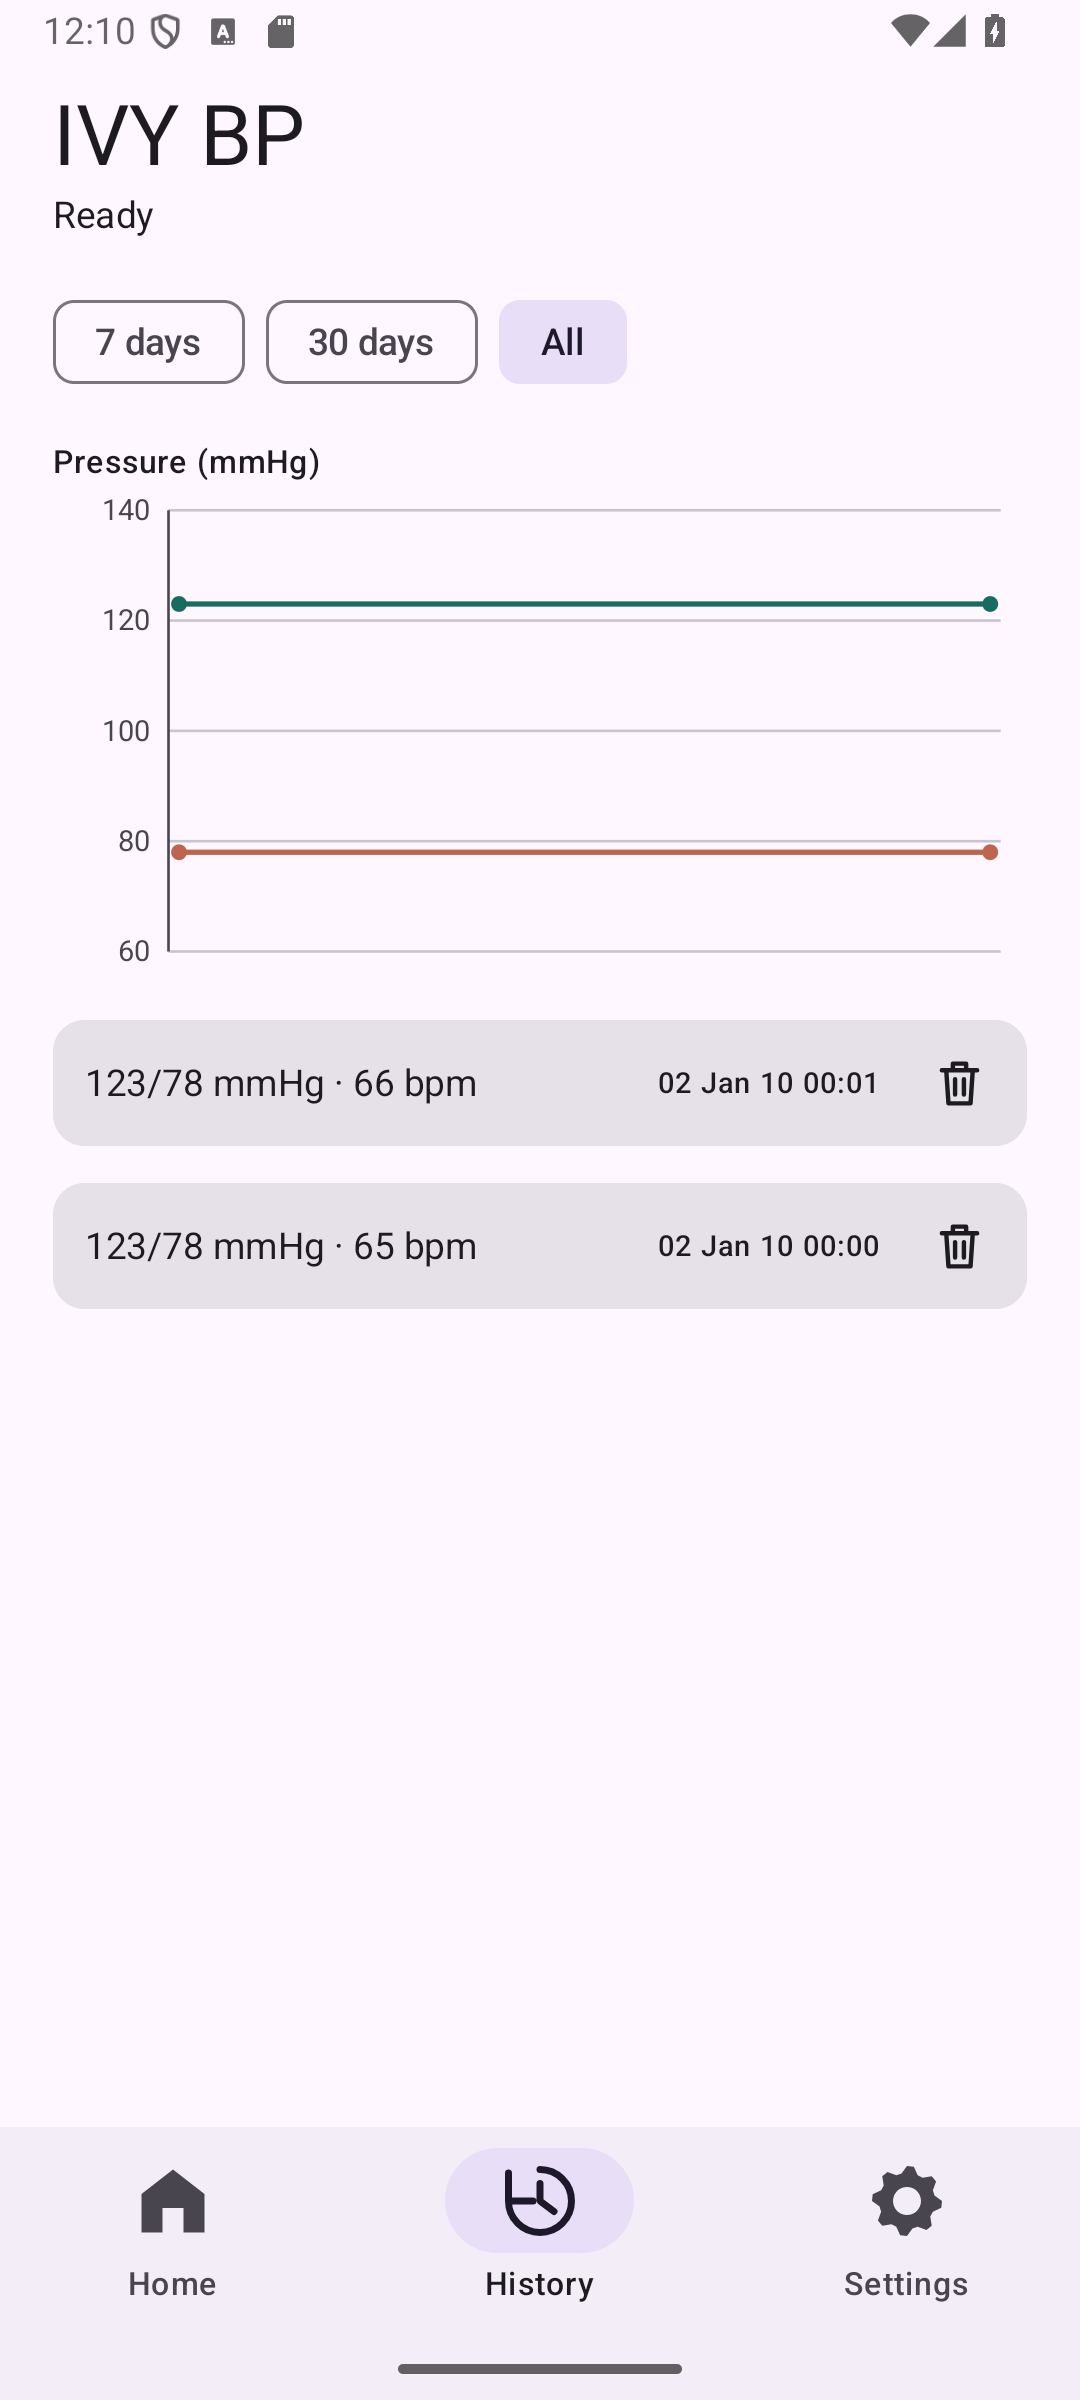
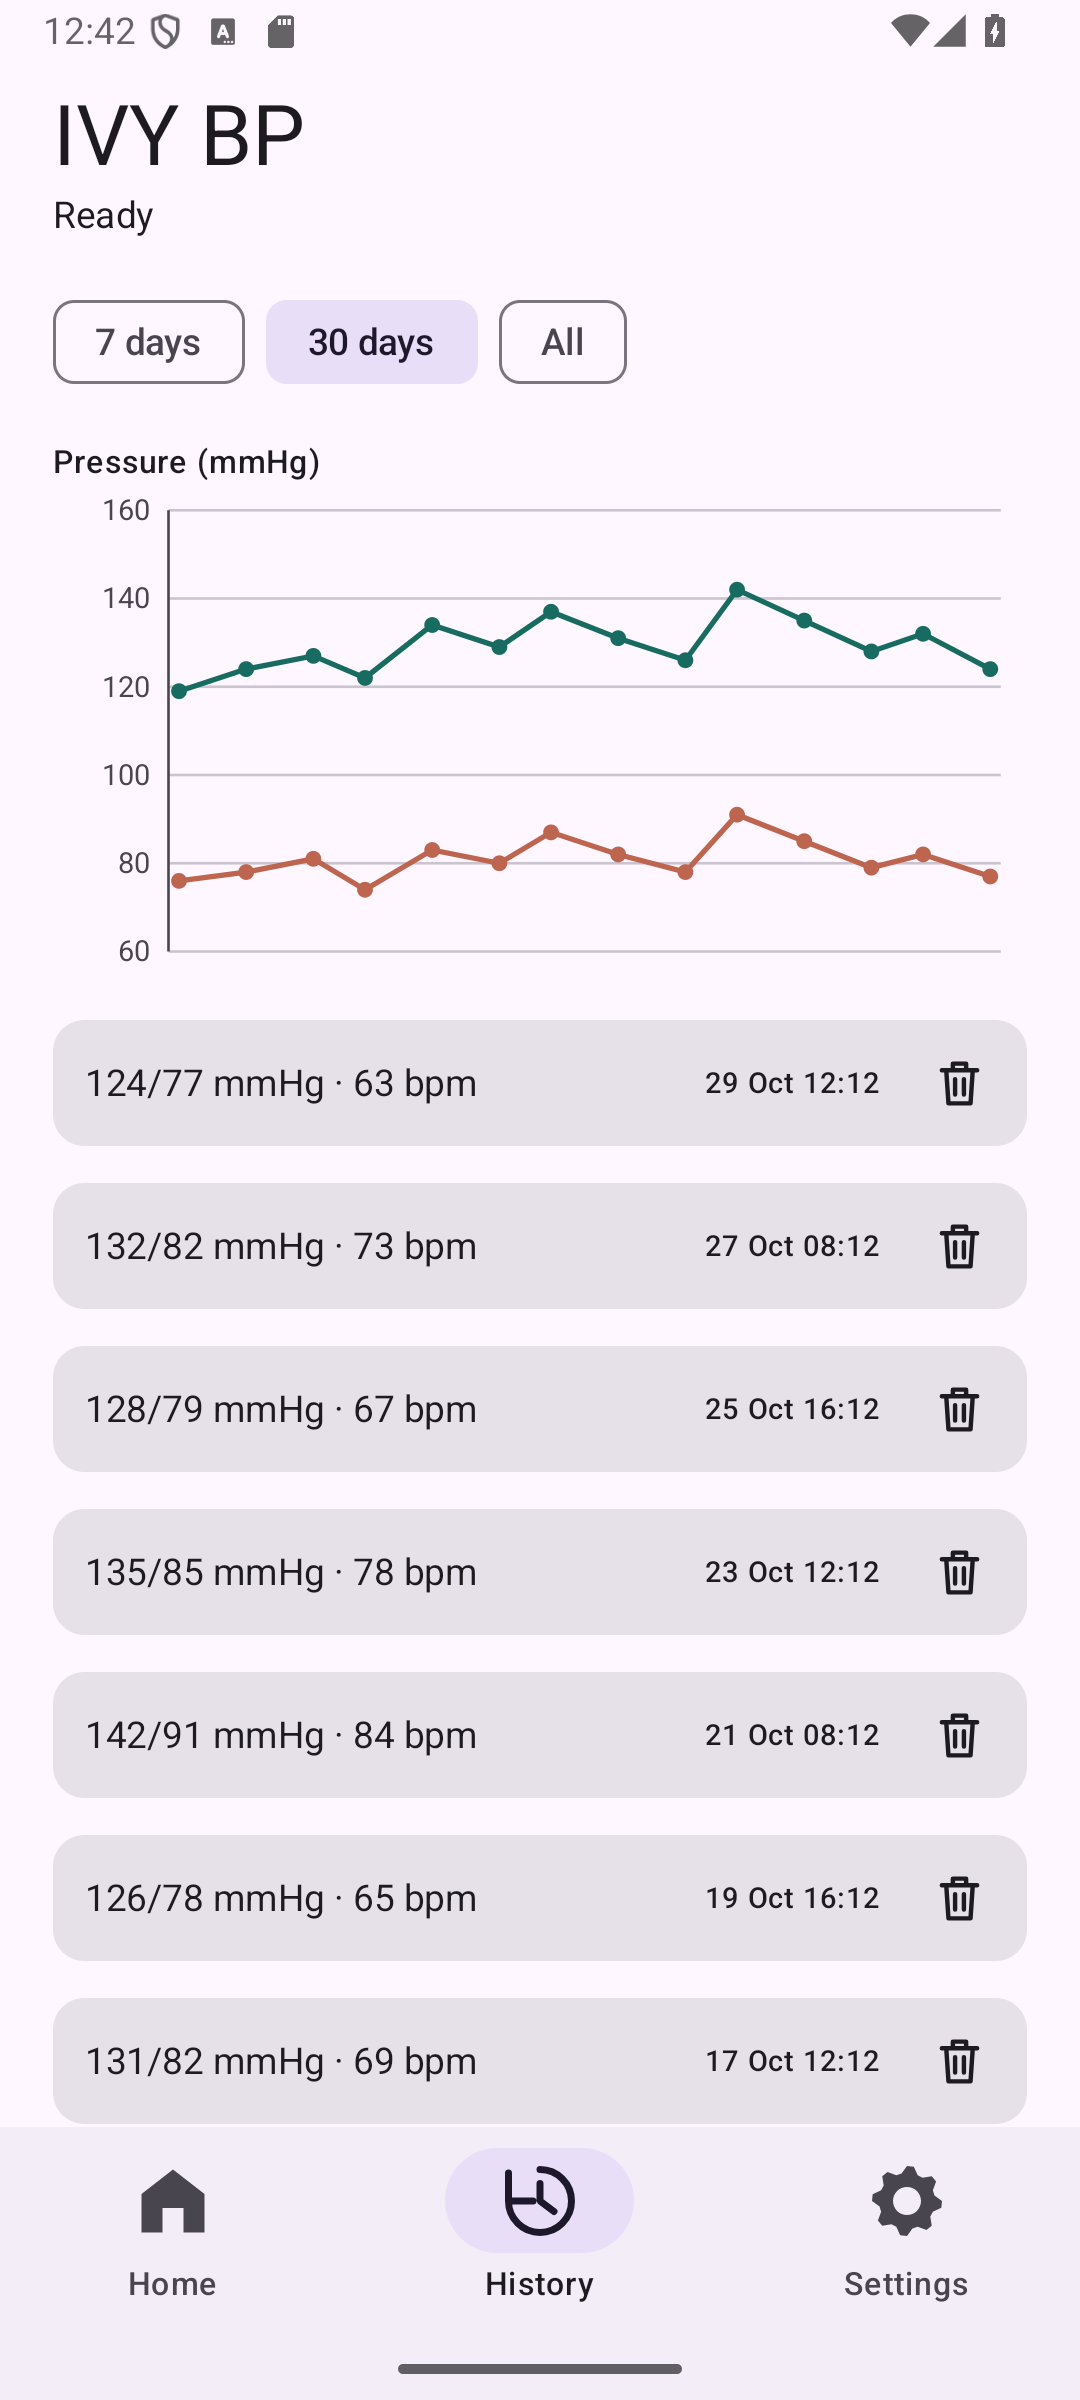
Refresh README history sample

diff --git a/README.md b/README.md
@@ -2,7 +2,9 @@
 
 Android app for syncing IVY Health IVBPW / LS810-B blood-pressure monitors over Bluetooth LE.
 
-<p align="center"><img src="docs/images/history.png" alt="IVY BP history with sample readings and pressure chart" width="360"></p>
+<img src="docs/images/history.png" alt="IVY BP history and pressure chart with fabricated sample readings" width="240">
+
+*Example history; all readings shown are fabricated.*
 
 ## Features
 
